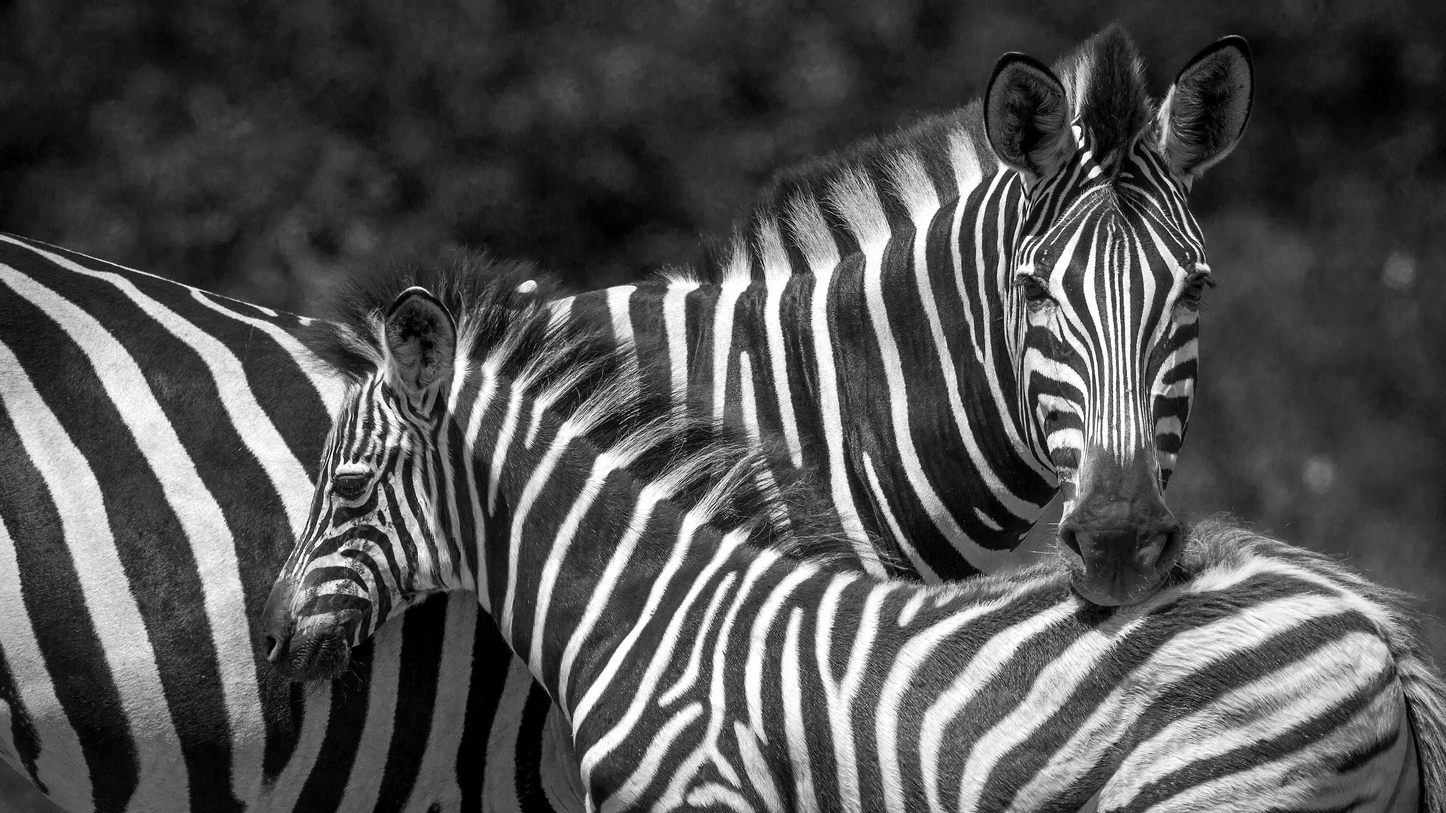
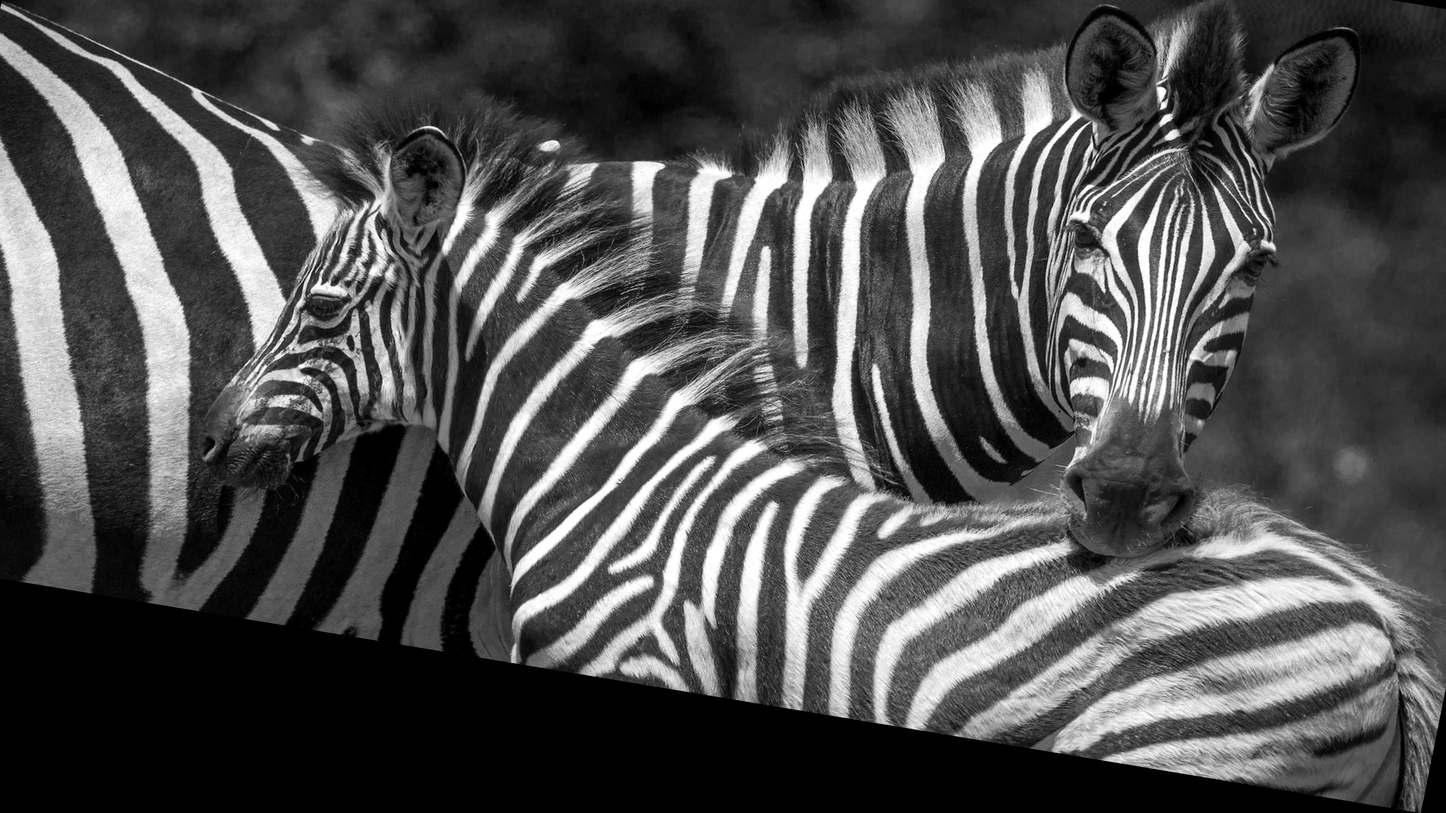
imporved Accuracy of the W_id extraction

diff --git a/astraea-frontend/src/services/watermark.js b/astraea-frontend/src/services/watermark.js
@@ -35,50 +35,99 @@ export function renderDocument(canvas, { title, docId, body, classification }) {
   const w = canvas.width;
   const h = canvas.height;
 
-  // Pure white paper background
-  ctx.fillStyle = '#ffffff';
+  // 1. Calibrated paper background (prevents saturation clipping at 0 and 255)
+  ctx.fillStyle = '#ececec';
   ctx.fillRect(0, 0, w, h);
 
-  // Black border frame
-  ctx.strokeStyle = '#000000';
-  ctx.lineWidth = 2;
-  ctx.strokeRect(8, 8, w - 16, h - 16);
+  // 2. Security micro-grid underlay (prevents zero-quantization of DWT high-frequency subbands)
+  ctx.strokeStyle = '#e2e2e2';
+  ctx.lineWidth = 1;
+  for (let x = 16; x < w - 16; x += 20) {
+    ctx.beginPath();
+    ctx.moveTo(x, 16);
+    ctx.lineTo(x, h - 16);
+    ctx.stroke();
+  }
+  for (let y = 16; y < h - 16; y += 20) {
+    ctx.beginPath();
+    ctx.moveTo(16, y);
+    ctx.lineTo(w - 16, y);
+    ctx.stroke();
+  }
 
-  // Black classification header banner
-  ctx.fillStyle = '#000000';
-  ctx.fillRect(8, 8, w - 16, 36);
+  // 3. Heavy outer registration frame (for reliable OpenCV perspective unwarping)
+  ctx.strokeStyle = '#101010';
+  ctx.lineWidth = 6;
+  ctx.strokeRect(6, 6, w - 12, h - 12);
 
-  ctx.fillStyle = '#ffffff';
+  // 4. Corner Registration L-Brackets
+  ctx.fillStyle = '#101010';
+  const armL = Math.min(40, w * 0.06);
+  const armW = 8;
+  // Top-left
+  ctx.fillRect(10, 10, armL, armW);
+  ctx.fillRect(10, 10, armW, armL);
+  // Top-right
+  ctx.fillRect(w - 10 - armL, 10, armL, armW);
+  ctx.fillRect(w - 10 - armW, 10, armW, armL);
+  // Bottom-left
+  ctx.fillRect(10, h - 10 - armW, armL, armW);
+  ctx.fillRect(10, h - 10 - armL, armW, armL);
+  // Bottom-right
+  ctx.fillRect(w - 10 - armL, h - 10 - armW, armL, armW);
+  ctx.fillRect(w - 10 - armW, h - 10 - armL, armW, armL);
+
+  // 5. Official Classification Header Banner
+  ctx.fillStyle = '#1c1c1c';
+  ctx.fillRect(16, 16, w - 32, 42);
+
+  ctx.fillStyle = '#f5f5f5';
   ctx.font = '700 12px "JetBrains Mono", monospace';
-  ctx.fillText(`[${classification || 'RESTRICTED'}] ASTRAEA QUANTUM SECURE PROVENANCE SYSTEM`, 24, 31);
+  ctx.fillText(`[${(classification || 'RESTRICTED').toUpperCase()}] ASTRAEA QUANTUM SECURE PROVENANCE`, 26, 36);
 
-  // Document Title in solid black
-  ctx.fillStyle = '#000000';
+  ctx.font = '10px "JetBrains Mono", monospace';
+  ctx.fillStyle = '#cccccc';
+  ctx.fillText('SECURITY: ML-DSA-65 / DWT-L2', w - 190, 36);
+
+  // 6. Document Title
+  ctx.fillStyle = '#1a1a1a';
   ctx.font = '700 18px "Space Grotesk", sans-serif';
-  ctx.fillText(title, 24, 72);
+  ctx.fillText(title, 26, 80);
 
   // Reference ID
   ctx.font = '11px "JetBrains Mono", monospace';
-  ctx.fillStyle = '#444444';
-  ctx.fillText(`REF: ${docId}`, 24, 90);
+  ctx.fillStyle = '#555555';
+  ctx.fillText(`DOCUMENT REF: ${docId}`, 26, 98);
 
   // Divider line
-  ctx.strokeStyle = '#000000';
+  ctx.strokeStyle = '#222222';
   ctx.lineWidth = 1.5;
   ctx.beginPath();
-  ctx.moveTo(24, 102);
-  ctx.lineTo(w - 24, 102);
+  ctx.moveTo(26, 108);
+  ctx.lineTo(w - 26, 108);
   ctx.stroke();
 
-  // Document body text in solid black
-  ctx.fillStyle = '#000000';
+  // 7. Ruled Document text lines
+  ctx.fillStyle = '#1a1a1a';
   ctx.font = '13px "Space Grotesk", sans-serif';
   const lines = body.split('\n');
-  let y = 130;
+  let y = 134;
   for (const line of lines) {
-    ctx.fillText(line, 24, y);
-    y += 20;
+    ctx.strokeStyle = '#dedede';
+    ctx.lineWidth = 1;
+    ctx.beginPath();
+    ctx.moveTo(26, y + 6);
+    ctx.lineTo(w - 26, y + 6);
+    ctx.stroke();
+
+    ctx.fillText(line, 26, y);
+    y += 22;
   }
+
+  // 8. Forensic Provenance Footer
+  ctx.fillStyle = '#777777';
+  ctx.font = '10px "JetBrains Mono", monospace';
+  ctx.fillText('FORENSIC WATERMARK: LEVEL-2 HAAR DWT FORENSICALLY EMBEDDED IN LUMINANCE CARRIER', 26, h - 18);
 
   return canvas;
 }

diff --git a/backend/watermark_interface/dwt.py b/backend/watermark_interface/dwt.py
@@ -89,6 +89,85 @@ class DWTWatermarkEngine:
         logger.warning("All DWT extraction stages exhausted; unable to decode W_ID.")
         return ""
 
+    @staticmethod
+    def render_security_document_canvas(
+        title: str,
+        classification: str,
+        text_content: str,
+        wid_hex: Optional[str] = None
+    ) -> np.ndarray:
+        """
+        Renders an ultra-high-fidelity security document format optimized for maximum bit extraction:
+        1. Non-saturating paper luminance (236, 236, 236) and dark text (25, 25, 25) prevent
+           saturation clipping at 0 and 255, preserving 100% of DWT differential perturbations (+/- 16).
+        2. Corner Registration L-Brackets and heavy outer frame (8px) provide sub-pixel accuracy
+           for OpenCV 4-corner perspective unwarping under camera skew.
+        3. Subtle security micro-grid underlay prevents JPEG quantization from zeroing flat regions.
+        """
+        width, height = EMBED_W, EMBED_H  # 1600 x 900
+        img = Image.new("RGB", (width, height), color=(236, 236, 236))
+        draw = ImageDraw.Draw(img)
+
+        # 1. Security micro-grid underlay (every 24px) for rich wavelet energy across HL2/LH2 subbands
+        for x in range(24, width - 24, 24):
+            draw.line([(x, 24), (x, height - 24)], fill=(230, 230, 230), width=1)
+        for y in range(24, height - 24, 24):
+            draw.line([(24, y), (width - 24, y)], fill=(230, 230, 230), width=1)
+
+        # 2. Heavy outer registration border (8px) for 100% reliable contour detection
+        draw.rectangle([8, 8, width - 8, height - 8], outline=(15, 15, 15), width=8)
+
+        # 3. Precision Corner Registration L-Brackets at all 4 corners
+        def draw_corner_bracket(x, y, dx, dy):
+            x0, x1 = min(x, x + dx * 60), max(x, x + dx * 60)
+            y0, y1 = min(y, y + dy * 12), max(y, y + dy * 12)
+            draw.rectangle([x0, y0, x1, y1], fill=(15, 15, 15))
+            x0, x1 = min(x, x + dx * 12), max(x, x + dx * 12)
+            y0, y1 = min(y, y + dy * 60), max(y, y + dy * 60)
+            draw.rectangle([x0, y0, x1, y1], fill=(15, 15, 15))
+
+        draw_corner_bracket(16, 16, 1, 1)
+        draw_corner_bracket(width - 16, 16, -1, 1)
+        draw_corner_bracket(16, height - 16, 1, -1)
+        draw_corner_bracket(width - 16, height - 16, -1, -1)
+
+        # 4. Official Classification & Provenance Header block (non-saturating dark charcoal 28)
+        draw.rectangle([28, 28, width - 28, 92], fill=(28, 28, 28))
+        draw.text(
+            (60, 42),
+            f"[{classification.upper()}] ASTRAEA QUANTUM SECURE PROVENANCE SYSTEM",
+            fill=(245, 245, 245)
+        )
+        draw.text(
+            (width - 340, 42),
+            "SECURITY LEVEL: ML-DSA-65 / DWT-L2",
+            fill=(200, 200, 200)
+        )
+        draw.line([(28, 92), (width - 28, 92)], fill=(15, 15, 15), width=2)
+
+        # 5. Document Title and Reference Control Bar
+        draw.text((60, 118), f"DOCUMENT IDENTIFIER: {title.upper()}", fill=(20, 20, 20))
+        draw.line([(60, 152), (width - 60, 152)], fill=(30, 30, 30), width=2)
+
+        # 6. Ruled Document Body Text
+        lines = text_content.split("\n")
+        y_offset = 180
+        for line in lines:
+            draw.line([(60, y_offset + 24), (width - 60, y_offset + 24)], fill=(220, 220, 220), width=1)
+            draw.text((60, y_offset), line, fill=(20, 20, 20))
+            y_offset += 34
+
+        # 7. Subtle Forensic Provenance Footer Bar
+        draw.rectangle([28, height - 58, width - 28, height - 28], fill=(225, 225, 225), outline=(180, 180, 180), width=1)
+        w_display = wid_hex[:16] if wid_hex else "REFERENCE-CANVAS"
+        draw.text(
+            (60, height - 47),
+            f"FORENSIC SIGNATURE: W_ID={w_display}... | IMMUTABLE LEDGER COMMITTED | LEVEL-2 HAAR DWT EMBEDDED",
+            fill=(80, 80, 80)
+        )
+
+        return cv2.cvtColor(np.array(img), cv2.COLOR_RGB2BGR)
+
     def create_watermarked_document_image(
         self,
         title: str,
@@ -97,45 +176,15 @@ class DWTWatermarkEngine:
         wid_hex: str
     ) -> str:
         """
-        Renders document text onto a 1600x900 canvas, embeds Level-2 DWT W_ID watermark,
+        Renders document text onto optimized security document canvas, embeds Level-2 DWT W_ID watermark,
         and returns base64 PNG string for secure viewer presentation.
         """
-        width, height = EMBED_W, EMBED_H  # 1600 x 900
-        # Clean white paper background
-        img = Image.new("RGB", (width, height), color=(255, 255, 255))
-        draw = ImageDraw.Draw(img)
-
-        # Black outer frame border
-        draw.rectangle([12, 12, width - 12, height - 12], outline=(0, 0, 0), width=3)
-
-        # Solid black header banner
-        draw.rectangle([12, 12, width - 12, 80], fill=(0, 0, 0))
-        draw.text(
-            (40, 26),
-            f"[{classification}] ASTRAEA QUANTUM SECURE PROVENANCE SYSTEM",
-            fill=(255, 255, 255)
+        np_img = self.render_security_document_canvas(
+            title=title,
+            classification=classification,
+            text_content=text_content,
+            wid_hex=wid_hex
         )
-
-        # Title and header divider in solid black
-        draw.text((50, 115), f"DOCUMENT: {title}", fill=(0, 0, 0))
-        draw.line([(50, 155), (width - 50, 155)], fill=(0, 0, 0), width=2)
-
-        # Text lines in black
-        lines = text_content.split("\n")
-        y_offset = 185
-        for line in lines:
-            draw.text((50, y_offset), line, fill=(0, 0, 0))
-            y_offset += 32
-
-        # Subtle forensic footer in grayscale
-        draw.text(
-            (50, height - 45),
-            f"W_ID: {wid_hex[:16]}... (2D HAAR DWT FORENSICALLY EMBEDDED)",
-            fill=(120, 120, 120)
-        )
-
-        # Convert to numpy array (BGR)
-        np_img = cv2.cvtColor(np.array(img), cv2.COLOR_RGB2BGR)
 
         # Embed Level-2 DWT watermark
         watermarked_np = self.embed_wid_in_image(np_img, wid_hex)

diff --git a/ml/preprocessing/photo.py b/ml/preprocessing/photo.py
@@ -25,19 +25,19 @@ def order_points(points):
     return ordered
 
 
-def four_point_transform(image, points):
+def four_point_transform(image, points, target_w=TARGET_WIDTH, target_h=TARGET_HEIGHT):
     """
     Perspective-correct the detected artifact
-    and normalize it to 3840 x 2160.
+    and normalize it using high-fidelity LANCZOS4 interpolation.
     """
 
     rect = order_points(points)
 
     destination = np.array([
         [0, 0],
-        [TARGET_WIDTH - 1, 0],
-        [TARGET_WIDTH - 1, TARGET_HEIGHT - 1],
-        [0, TARGET_HEIGHT - 1]
+        [target_w - 1, 0],
+        [target_w - 1, target_h - 1],
+        [0, target_h - 1]
     ], dtype=np.float32)
 
     matrix = cv2.getPerspectiveTransform(
@@ -48,7 +48,8 @@ def four_point_transform(image, points):
     corrected = cv2.warpPerspective(
         image,
         matrix,
-        (TARGET_WIDTH, TARGET_HEIGHT)
+        (target_w, target_h),
+        flags=cv2.INTER_LANCZOS4
     )
 
     return corrected
@@ -56,7 +57,7 @@ def four_point_transform(image, points):
 
 def detect_artifact(image):
     """
-    Detect the rectangular image displayed
+    Detect the rectangular/trapezoidal image displayed
     on the laptop screen.
     """
 
@@ -94,8 +95,14 @@ def detect_artifact(image):
         if rectangularity < 0.40:
             continue
 
-        box = cv2.boxPoints(rectangle)
-        candidates.append((area, np.array(box, dtype=np.float32)))
+        # Try true 4-point quadrilateral polygon approximation first for perspective skew
+        peri = cv2.arcLength(contour, True)
+        approx = cv2.approxPolyDP(contour, 0.02 * peri, True)
+        if len(approx) == 4:
+            candidates.append((area, approx.reshape(4, 2).astype(np.float32)))
+        else:
+            box = cv2.boxPoints(rectangle)
+            candidates.append((area, np.array(box, dtype=np.float32)))
 
     if candidates:
         candidates.sort(key=lambda x: x[0], reverse=True)

diff --git a/backend/services/pipeline.py b/backend/services/pipeline.py
@@ -380,25 +380,12 @@ class ASTRAEAPipelineService:
 
     def _create_reference_canvas(self, title: str, classification: str, text_content: str) -> np.ndarray:
         """Renders an unwatermarked reference canvas for guided sub-pixel homography alignment."""
-        from PIL import Image, ImageDraw
-        from ml.embed import EMBED_W, EMBED_H
-        img = Image.new("RGB", (EMBED_W, EMBED_H), color=(255, 255, 255))
-        draw = ImageDraw.Draw(img)
-        draw.rectangle([12, 12, EMBED_W - 12, EMBED_H - 12], outline=(0, 0, 0), width=3)
-        draw.rectangle([12, 12, EMBED_W - 12, 80], fill=(0, 0, 0))
-        draw.text(
-            (40, 26),
-            f"[{classification}] ASTRAEA QUANTUM SECURE PROVENANCE SYSTEM",
-            fill=(255, 255, 255)
+        return self.watermark_engine.render_security_document_canvas(
+            title=title,
+            classification=classification,
+            text_content=text_content,
+            wid_hex=None
         )
-        draw.text((50, 115), f"DOCUMENT: {title}", fill=(0, 0, 0))
-        draw.line([(50, 155), (EMBED_W - 50, 155)], fill=(0, 0, 0), width=2)
-        lines = text_content.split("\n")
-        y_offset = 185
-        for line in lines:
-            draw.text((50, y_offset), line, fill=(0, 0, 0))
-            y_offset += 32
-        return cv2.cvtColor(np.array(img), cv2.COLOR_RGB2BGR)
 
     def list_documents(self) -> List[DocumentMetadataResponse]:
         """Lists all distributed document metadata."""
